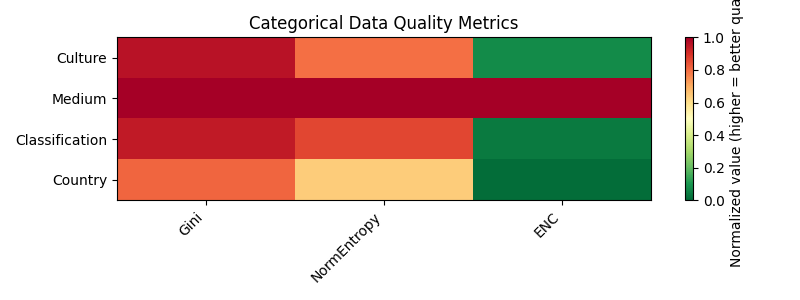
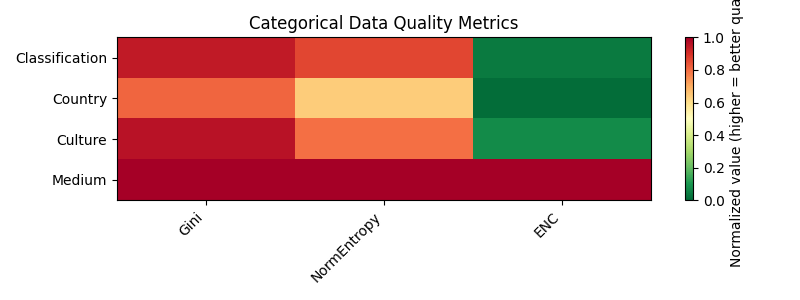
бвеп

Changed region(s): [[0.0625, 0.12, 0.8125, 0.69], [0.0, 0.45, 0.1562, 0.48], [0.0, 0.18, 0.1562, 0.21]]

diff --git a/Lab3/main.py b/Lab3/main.py
@@ -46,7 +46,7 @@ def prepare_chunk(
     chunk_iter: Generator[pd.DataFrame, None, None],
 ) -> Generator[pd.DataFrame, None, None]:
     """
-    Генератор, приводящий данные к нужному виду.
+    Генератор, приводящий данные к нужному для обработки виду.
 
     - Отбирает нужные столбцы.
     - Преобразует Object Begin Date в число.
@@ -74,7 +74,7 @@ def aggregate_pipeline(
     chunk_iter: Generator[pd.DataFrame, None, None],
 ) -> Generator[Tuple[pd.DataFrame, pd.DataFrame, pd.DataFrame], None, None]:
     """
-    Генератор, накапливающий статистику в pandas-структурах без списков и словарей.
+    Генератор, накапливающий статистику в pandas-структурах.
 
     Args:
         chunk_iter: Генератор
@@ -84,38 +84,53 @@ def aggregate_pipeline(
         year_counts: DataFrame с мультииндексом (Department, Year) и столбцом ['count'].
         cat_df: DataFrame с индексами - значениями категорий и столбцами из CATEGORICAL_COLUMNS.  # noqa E501
     """
-    dept_stats = pd.DataFrame(columns=['count', 'sum', 'sum2']).astype(
-        {'count': 'int64', 'sum': 'float64', 'sum2': 'float64'})
-    year_counts = pd.DataFrame(columns=['count']).astype({'count': 'int64'})
-    cat_df = pd.DataFrame(columns=CATEGORICAL_COLUMNS).astype('int64')
+    # 1. Статистика по отделам (индекс – Department)
+    dept_stats = pd.DataFrame(columns=["count", "sum", "sum2"]).astype(
+        {"count": "int64", "sum": "float64", "sum2": "float64"}
+    )
+
+    # 2. Количество объектов по годам для каждого отдела
+    # Создаём пустой DataFrame с мультииндексом из двух уровней
+    empty_multi_index = pd.MultiIndex(
+        levels=[[], []],
+        codes=[[], []],
+        names=["Department", "Object Begin Date"]
+    )
+    year_counts = pd.DataFrame(index=empty_multi_index, columns=["count"]).astype({"count": "int64"})
+
+    # 3. Категориальные поля: частоты для каждой колонки
+    # Пустой индекс типа object, чтобы позже объединять с категориальными значениями
+    cat_df = pd.DataFrame(
+        index=pd.Index([], dtype=object),
+        columns=CATEGORICAL_COLUMNS
+    ).fillna(0).astype("int64")
 
     for df in chunk_iter:
-        # Статистика по отделам (count, sum, sum2)
-        agg_dept = df.groupby('Department')['Object Begin Date'].agg(
-            count='size',
-            sum='sum',
-            sum2=lambda x: (x ** 2).sum(),
+        # 1. Агрегация для департаментов (count, sum, sum квадратов)
+        agg_dept = df.groupby("Department")["Object Begin Date"].agg(
+            count="size",
+            sum="sum",
+            sum2=lambda x: (x**2).sum(),
         )
         dept_stats = dept_stats.add(agg_dept, fill_value=0)
 
-        # Количество объектов по годам для каждого отдела
-        year_counts_chunk = df.groupby(['Department', 'Object Begin Date']).size().rename('count')
-        if not year_counts_chunk.empty:
-            year_counts = year_counts.add(year_counts_chunk.to_frame(), fill_value=0)
+        # 2. Количество объектов по годам для каждого департамента
+        year_chunk = df.groupby(["Department", "Object Begin Date"]).size().rename("count")
+        if not year_chunk.empty:
+            # Преобразуем Series в DataFrame с одной колонкой
+            year_chunk_df = year_chunk.to_frame()
+            year_counts = year_counts.add(year_chunk_df, fill_value=0)
 
-        # Категориальные поля: собираем частоты в один DataFrame
-        cat_chunk = pd.DataFrame()
+        # 3. Категориальные поля: частоты для каждой колонки
         for col in CATEGORICAL_COLUMNS:
+            # Очистка: удаляем NaN, пустые строки и лишние пробелы
             values = df[col].dropna().astype(str).str.strip()
-            values = values[values != '']
+            values = values[values != ""]
             if values.empty:
                 continue
-
-            freq = values.value_counts().rename(col)
-            cat_chunk = pd.concat([cat_chunk, freq.to_frame()], axis=1)
-
-        if cat_chunk.empty:
-            cat_df = cat_df.add(cat_chunk, fill_value=0).fillna(0).astype('int64')
+            # Частоты значений в виде DataFrame с одной колонкой col
+            freq = values.value_counts().rename(col).to_frame()
+            cat_df = cat_df.add(freq, fill_value=0).fillna(0).astype("int64")
 
     yield dept_stats, year_counts, cat_df
 
